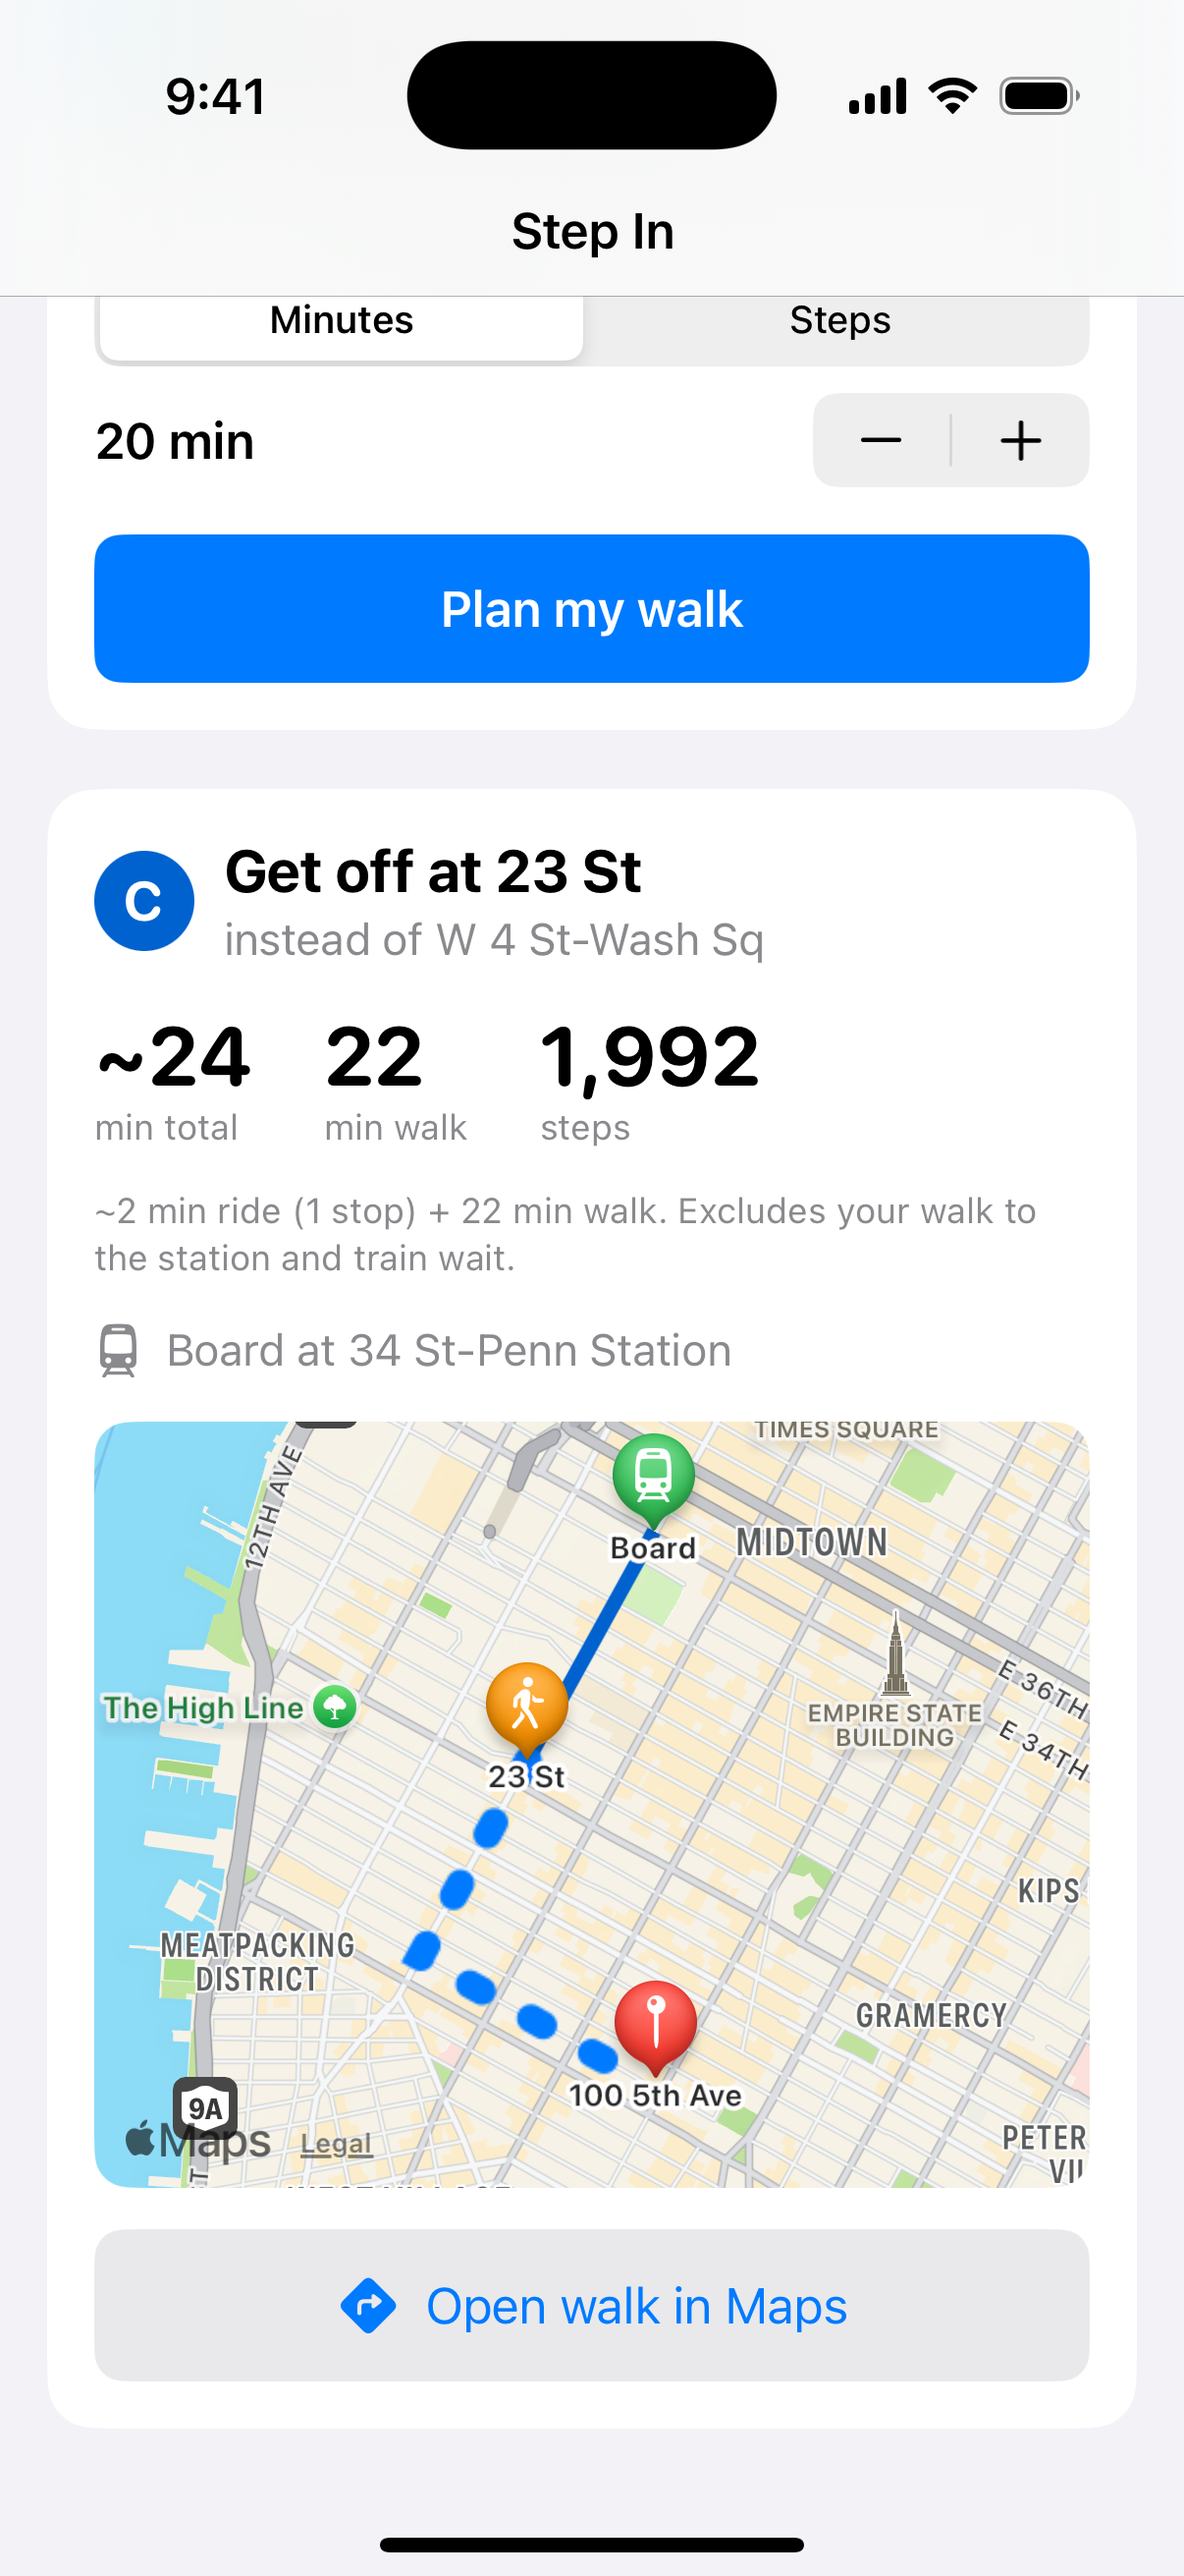
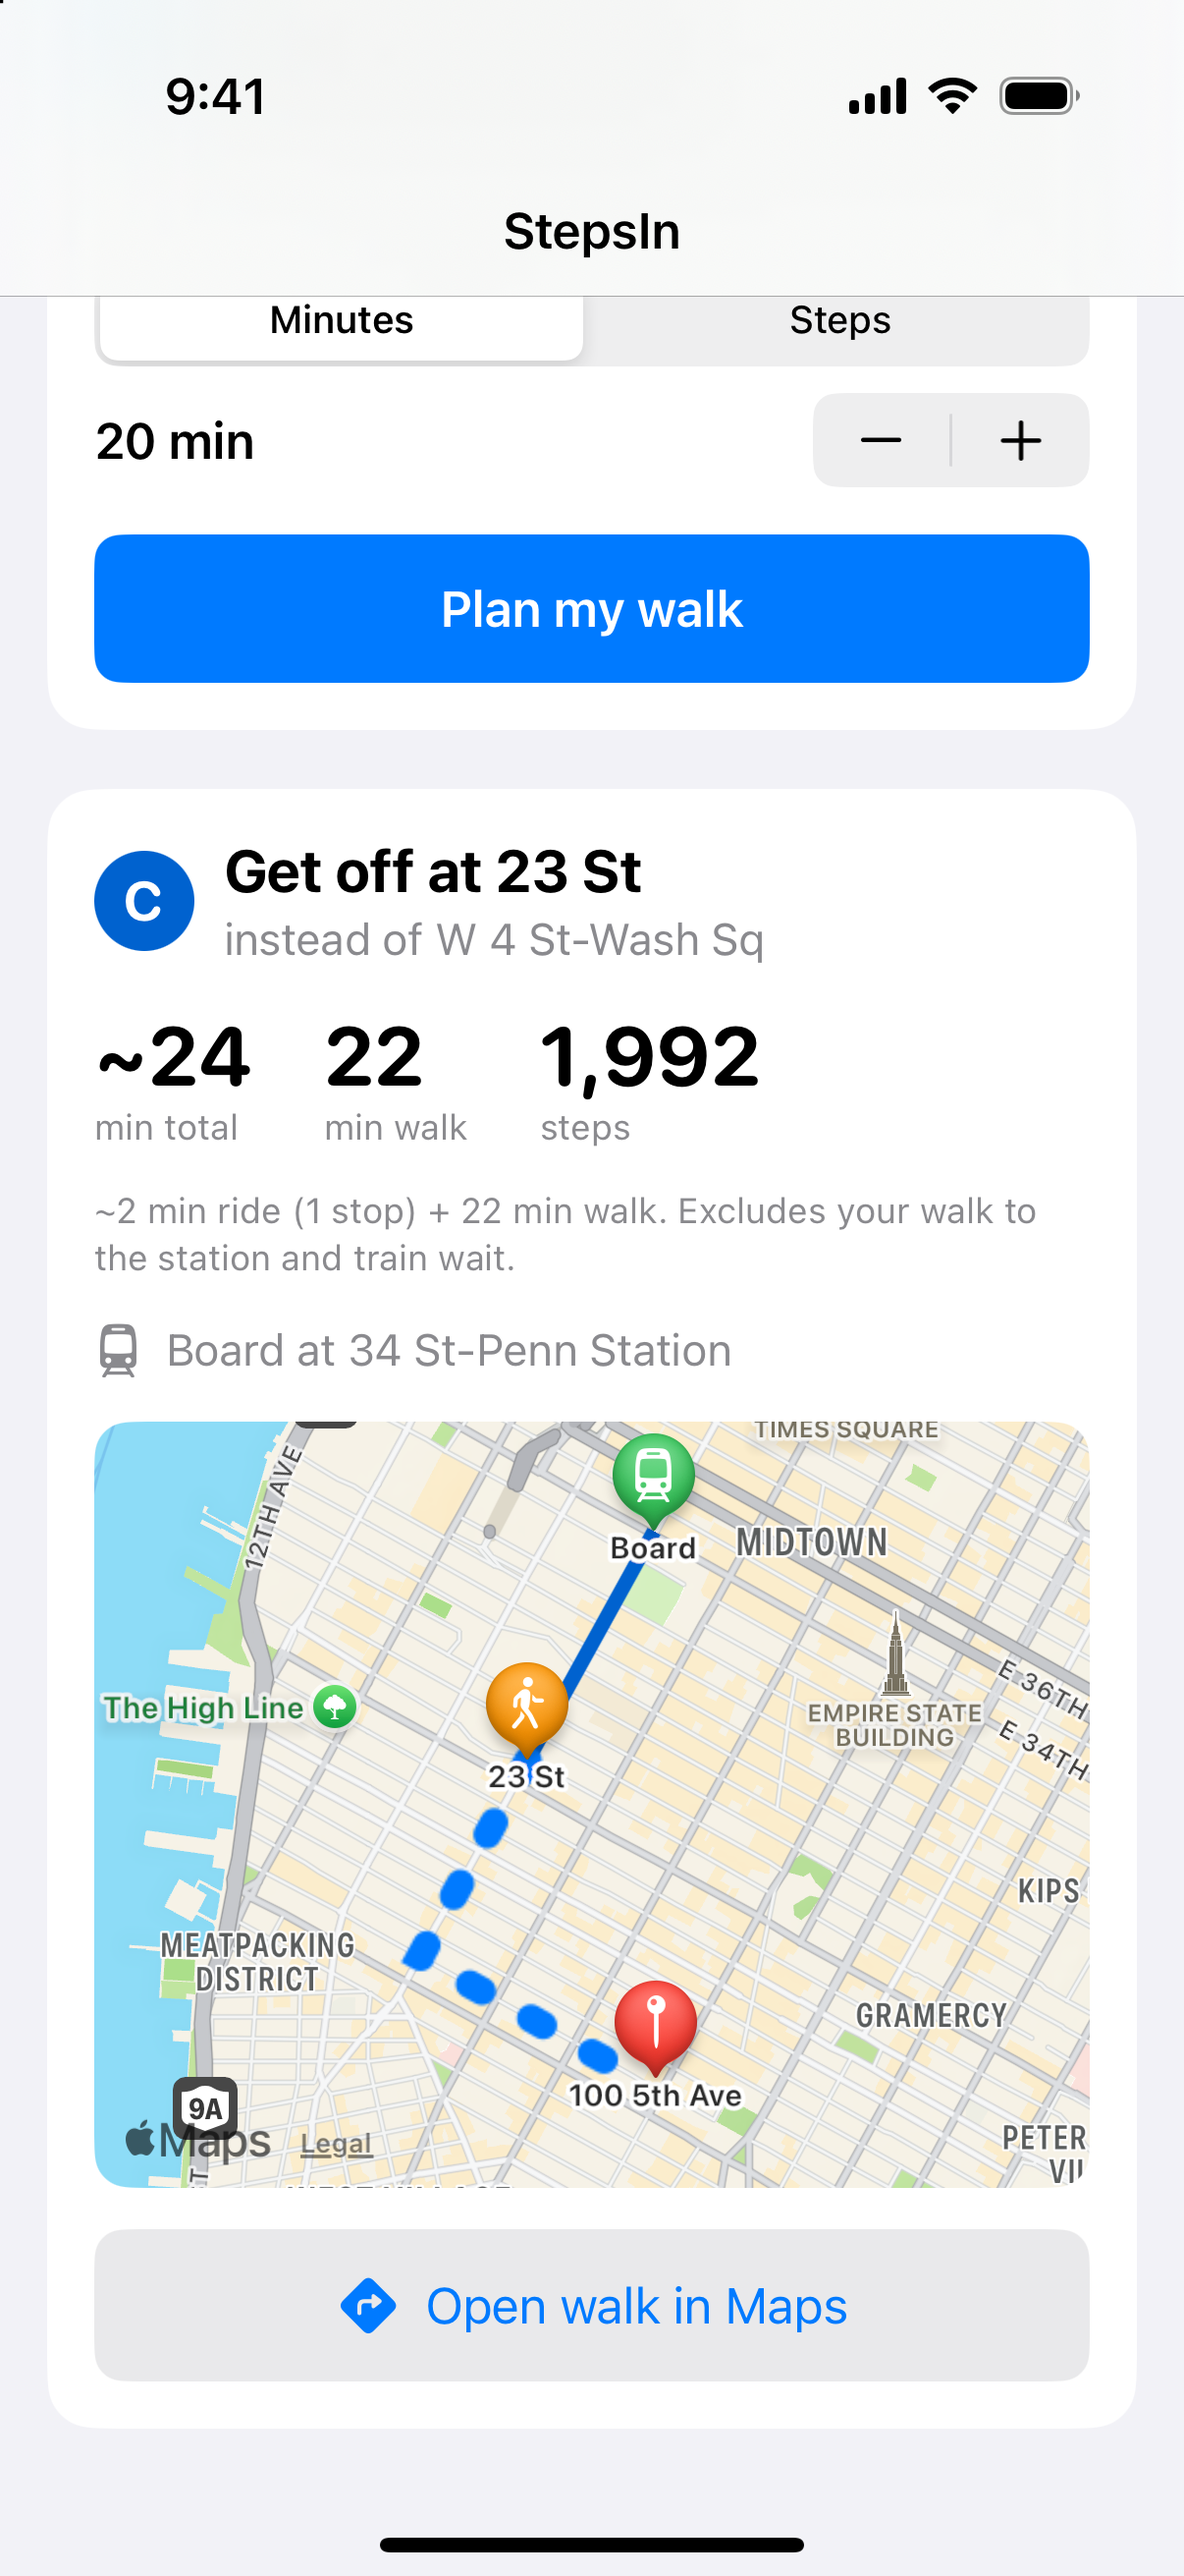
Rename app to StepsIn
Rename target/bundle/dirs StepIn -> StepsIn, display name StepsIn, and refresh
README (now em-dash-free) and screenshots to match.

Changed region(s): [[0.3375, 0.0, 0.675, 0.1236], [0.7363, 0.5561, 0.7977, 0.587]]

diff --git a/StepsIn/Views/PlanView.swift b/StepsIn/Views/PlanView.swift
@@ -18,7 +18,7 @@ struct PlanView: View {
                     .padding()
                 }
                 .scrollDismissesKeyboard(.interactively)
-                .navigationTitle("Step In")
+                .navigationTitle("StepsIn")
                 .background(Color(.systemGroupedBackground))
                 .onChange(of: model.resultCount) { _, _ in
                     withAnimation(.snappy) { proxy.scrollTo("result", anchor: .top) }

diff --git a/StepsInTests/PlannerTests.swift b/StepsInTests/PlannerTests.swift
@@ -1,6 +1,6 @@
 import XCTest
 import CoreLocation
-@testable import StepIn
+@testable import StepsIn
 
 // A straight north–south synthetic line of 5 stations 400 m apart, with a
 // destination 100 m north of the last stop. Earlier (southern) stops are

diff --git a/StepsIn/App/StepsInApp.swift b/StepsIn/App/StepsInApp.swift
@@ -1,7 +1,7 @@
 import SwiftUI
 
 @main
-struct StepInApp: App {
+struct StepsInApp: App {
     private let graph: SubwayGraph
 
     init() {
